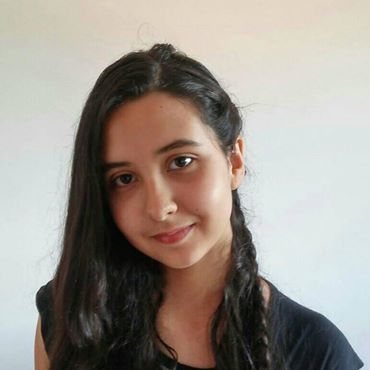
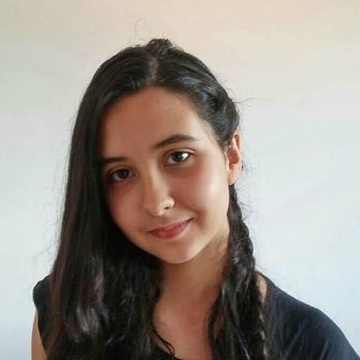
12/11/2020

diff --git a/index.html b/index.html
@@ -3,7 +3,7 @@
 <head>
 	<meta charset="utf-8">
 	<meta name="viewport" content="width=device-width, inicial-scale1.0">
-	<link rel="icon" href="img/favicon.png">
+	<link rel="icon" href="img/favicon.jpg">
 	<link href="<link href="https://fonts.googleapis.com/css2?family=Patrick+Hand&display=swap" rel="stylesheet">
 	<link rel="stylesheet" type="text/css" href="css/reset.css">
 	<link rel="stylesheet" type="text/css" href="css/estilo.css">
@@ -19,7 +19,7 @@
 			<li><a href="#sobre">Sobre Mim</a></li>
 			<li><a href="#especialidades"> Especialidades </a></li>
 			<li><a href="#trabalhos">Trabalhos e Hobbyes</a></li>
-			<li><a href="" >Entre em contato </a></li>
+			<li><a href="#contato" >Entre em contato </a></li>
 		</ul>
 	</nav>
 	<header>
@@ -39,7 +39,7 @@
 
 			
 		</section>
-		<section id="especialidades">
+		<section class="container" id="especialidades">
 			<h2>Especialidades</h2>
 			<div>
 				<img src="img/lapiz.png">
@@ -52,7 +52,7 @@
 				<p>gosto muito de escrever,me considero boa em  fazer relatorios e textos argumentativos alem, de tambem gostar de criar as minhas propias historias.</p>
 			</div>					
 		</section>
-		<section id="competencias">
+		<section class="container"  id="competencias">
 			<h2>Minhas Principais Competencias Socioemocionais</h2>
 			<h3><a href="doc/competenciasgerais.png" target="_blank"> Veja aqui </a> quais são todas as competências pela BNCC </h3>
 			<div class="comp comp2">
@@ -92,7 +92,7 @@
 
 			</div>
 			<div class="comp trab">
-				<a href="#"><img src="img/meusite.png" id="teste"></a>
+				<a href="https://beatriz-pereira.github.io/beatrizpereira.github.io/Universo/"><img src="img/universo.png" id="teste"></a>
 
 			</div>
 			<div class="comp trab">
@@ -100,27 +100,28 @@
 
 			</div>
 		</section>
-		<section id="hobby">
+		<section class="container"  id="hobby">
 			<h2>Coisas que gosto de fazer.</h2>
 			<div class="hobby">
 				<p>Alguns de meus primeiros projetos no scrath, esse fiz para converter fahrenheit em celsius.</p>
 				<iframe src="https://scratch.mit.edu/projects/372920611/embed" allowtransparency="true" width="80%" height="300" frameborder="0" scrolling="no" allowfullscreen></iframe>
 			</div>
-			<div class= "desenho trab ">
+			<div class= "desenho trab container ">
 				<h3>Abaixo estão alguns de meus desenhos, que são meu passatempo predileto.</h3>
-			    <p>(embora não sejam muito bons)</p>
+			</div>
+			<div class= "desenho trab container ">
 				<img src="img/sonhos.jpg">
 				<img src="img/equilibrio.png">
 			</div>
-			<div class= "desenho trab ">
+
+			<div class= "desenho trab container ">
 				<img src="img/mundo.jpg">
 				<img src="img/aranha.jpg">
 			</div>
-				<div class= "desenho trab ">
+			<div class= "desenho trab  container">
 				<img src="img/moana.png">
 				<img src="img/aranha2.jpg">
 			</div>
-
 
 		
 		</section>

diff --git a/css/estilo.css b/css/estilo.css
@@ -21,8 +21,9 @@ p{
 /*cabeçalho ou barra de navegaçao*/
 .logo img{
 	border-radius: 50%;
-	 padding: 2px;
-    border:10px double 	#9932CC;
+	padding: 2px;
+	align-items: left;
+    
 }
 nav{
 	display: flex;
@@ -34,7 +35,7 @@ nav{
 }
 
 nav ul{
-	list-style: none;#FF1493
+	list-style: none;
 	padding: 0;
 	display: flex;
 	flex-direction: column;
@@ -46,14 +47,14 @@ nav ul{
 nav ul li{
 	text-align: center;
 	width: 100%;
-	font-size: 1.5em;
+	font-size: 1.4em;
 	padding: 2%
 
 }
 
 nav ul li a{
 	display: inline-block;
-	padding: 10px 0;
+	padding: 8px 0;
 	width: 100%;
 	text-decoration: none;
 	color: #fff;
@@ -76,6 +77,7 @@ header p{
 	margin-bottom: 1em;
 	font-size:1.7em; 
 }
+
 .botao{
 	color: #fff;
 	text-decoration: none;
@@ -95,12 +97,14 @@ header p{
 	color:#fff; 
 }
 #sobre h2{
-	margin-top: 20px;
-	font-size: 2em;
+	margin-top: 15px;
+	font-size: 1.8em;
 }
 .foto img {
-	width: 60%;
-}
+	width: 70%;
+	border-radius: 50%;
+	padding-top: none;
+	}
 .foto {
 	float: left;
 	width: 50%;
